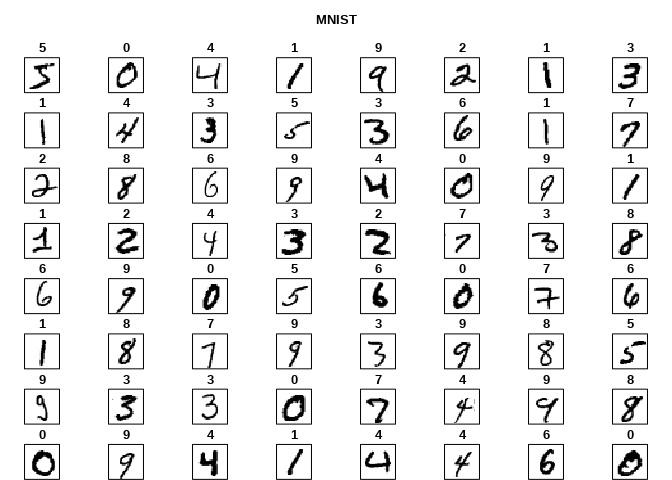
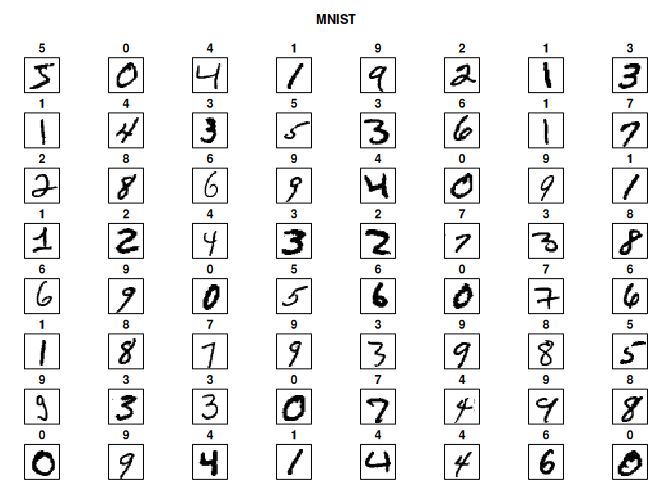
Restore rendered README output

diff --git a/README.md b/README.md
@@ -45,8 +45,8 @@ cuML](https://github.com/rapidsai/cuml#supported-algorithms)).
 
 {cuda.ml} provides {parsnip} bindings for supervised ML algorithms such
 as `linear_reg`, `logistic_reg`, `multinom_reg`, `rand_forest`,
-`nearest_neighbor`, `svm_rbf`, `svm_poly`, and `svm_linear`.
-Install {parsnip} separately to use these optional bindings.
+`nearest_neighbor`, `svm_rbf`, `svm_poly`, and `svm_linear`. Install
+{parsnip} separately to use these optional bindings.
 
 Regularized models follow tidymodels conventions for `penalty` and
 `mixture`. When predictors need scaling, learn and apply it explicitly
@@ -77,9 +77,15 @@ model <- svm_rbf(mode = "classification", rbf_sigma = 10, cost = 50) %>%
 preds <- predict(model, test_data)
 
 cat("Confusion matrix:\n\n")
+#> Confusion matrix:
 preds %>%
   bind_cols(test_data %>% select(Species)) %>%
   yardstick::conf_mat(truth = Species, estimate = .pred_class)
+#>             Truth
+#> Prediction   setosa versicolor virginica
+#>   setosa         15          0         0
+#>   versicolor      0         12         1
+#>   virginica       0          3        14
 ```
 
 ## Using {cuda.ml} for unsupervised ML tasks
@@ -92,16 +98,30 @@ library(cuda.ml)
 
 clustering <- cuda_ml_kmeans(
   iris[, which(names(iris) != "Species")],
-  k = 3, max_iters = 100
+  k = 3, max_iters = 100, seed = 0L
 )
 
 # Expected outcome: there is strong correlation
 # between cluster labels and `iris$Species`
-print(clustering)
+str(clustering)
+#> List of 4
+#>  $ labels   : int [1:150] 1 1 1 1 1 1 1 1 1 1 ...
+#>  $ centroids: num [1:3, 1:4] 5.9 5.01 6.85 2.75 3.43 ...
+#>  $ inertia  : num 78.9
+#>  $ n_iter   : int 100
 
 library(dplyr, warn.conflicts = FALSE)
 tibble(cluster_id = clustering$labels, species = iris$Species) %>%
   group_by(cluster_id) %>% count(species)
+#> # A tibble: 5 × 3
+#> # Groups:   cluster_id [3]
+#>   cluster_id species        n
+#>        <int> <fct>      <int>
+#> 1          0 versicolor    48
+#> 2          0 virginica     14
+#> 3          1 setosa        50
+#> 4          2 versicolor     2
+#> 5          2 virginica     36
 ```
 
 ## Using {cuda.ml} for visualizations
@@ -122,10 +142,32 @@ library(cuda.ml)
 library(ggplot2)
 library(magrittr)
 
-# load mnist
+# Load checksum-matched local MNIST inputs. Rendering never downloads data.
+mnist_files <- file.path(
+  "data-raw",
+  c("train-images-idx3-ubyte.gz", "train-labels-idx1-ubyte.gz")
+)
+stopifnot(
+  all(file.exists(mnist_files)),
+  identical(
+    unname(vapply(
+      mnist_files,
+      digest::digest,
+      character(1),
+      algo = "sha256",
+      file = TRUE
+    )),
+    c(
[2 lines of base64/hex data omitted]
+    )
+  )
+)
 source("data-raw/load-mnist.R")
 str(mnist_images)
+#>  int [1:28, 1:28, 1:60000] 0 0 0 0 0 0 0 0 0 0 ...
 str(mnist_labels)
+#>  int [1:60000(1d)] 5 0 4 1 9 2 1 3 1 4 ...
 
 
 # flatten each image to a 1d array, combine into a matrix with 1 row per image
@@ -140,10 +182,11 @@ flattened_mnist_images <-
 # embed
 embedding <- cuda_ml_umap(
   flattened_mnist_images, n_components = 2, n_neighbors = 50,
-  local_connectivity = 15, repulsion_strength = 10
+  local_connectivity = 15, repulsion_strength = 10, seed = 0L
 )
 
 str(embedding$transformed_data)
+#>  num [1:60000, 1:2] -7.08 -32.55 9.61 20.65 12.25 ...
 
 # visualize
 embedding$transformed_data %>%
@@ -154,6 +197,8 @@ embedding$transformed_data %>%
   labs(title = "UMAP: Uniform Manifold Approximation and Projection",
        subtitle = "Two Dimensional Embedding of MNIST")
 ```
+
+<img src="man/figures/README-umap-example-1.png" alt="" width="100%" />
 
 From this type of visualization, we can qualitatively understand the
 following about the MNIST dataset:
@@ -335,4 +380,5 @@ Inspect MNIST images
 plot_mnist(1:64)
 ```
 
+<img src="man/figures/README-mnist-1.png" alt="" width="100%" />
 </details>
